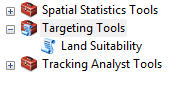
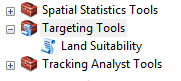
Resized image and edited README

diff --git a/README.md b/README.md
@@ -1,13 +1,13 @@
 Targeting Tools
 ===============
 
-Crop Suitability toolbox is an ArcGIS toolbox (.pyt) purely developed using Python programming language. The toolbox has three tools that were developed with an aim of identifying land that is suitable for a certain crop to grow based on user criteria. The three tools are:
+Targeting toolbox is an ArcGIS toolbox (.pyt) purely developed using Python programming language. The toolbox has three tools that were developed with an aim of identifying land that is suitable for a certain crop to grow based on user criteria. The three tools are:
 
 * **Land Suitability:** This tool can be used to identify areas that ,are suitable for planting a certain type of crop as per the user criteria. Please click on the **Help Tool button** once you install the toolbox in an ArcGIS environment to get information on how to use it.
 
 * **Land Match:** A tool that can be used to find suitable sites that are similar to already existing farmlands under a certain type of crop. This tool is still **under development** and will be shared soon.
 
-* **Target Statistics:** This tool would be expeceted to calculate statistics on values of the output rasters of the above mentioned tools. **To be realeased soon**.
+* **Target Statistics:** This tool is expeceted to calculate statistics on values of the output rasters from the two tools mentioned above. **To be realeased soon**.
 
 
 ## Tool Specifications
